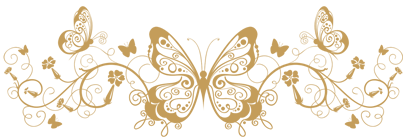
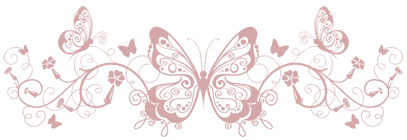
correccion colores CANDE

Changed region(s): [[0.0, 0.0286, 1.0, 0.9714]]

diff --git a/css/cande.css b/css/cande.css
@@ -1,8 +1,9 @@
-html{
-    background-color: black;
-}
-p, h4, h5{
+
+h4, h5{
     color: #d4a8a8;
+}
+p{
+    color: #c49d5a;
 }
 h3{
     color: #d4a8a8;
@@ -22,6 +23,7 @@ h3{
       margin-bottom: 1rem;
       color: #c49d5a;
   }
+
   .separadorInicio{
       background-image: url("../img/galeriaCande/ornamenta.png");
       height: 10rem;
@@ -60,13 +62,10 @@ h3{
     background-color: #c49d5a;
     border-radius: .3rem;
     border: none;
+    color: white;
 }
 .btnWhatsapp{
-    background-color: #d4a8a8;
-    color: black;
-}
-.btnWhatsapp i{
-    color: black;
+    background-color: #c49d5a;
 }
 .navMenu{
     background-color: #d4a8a8;
